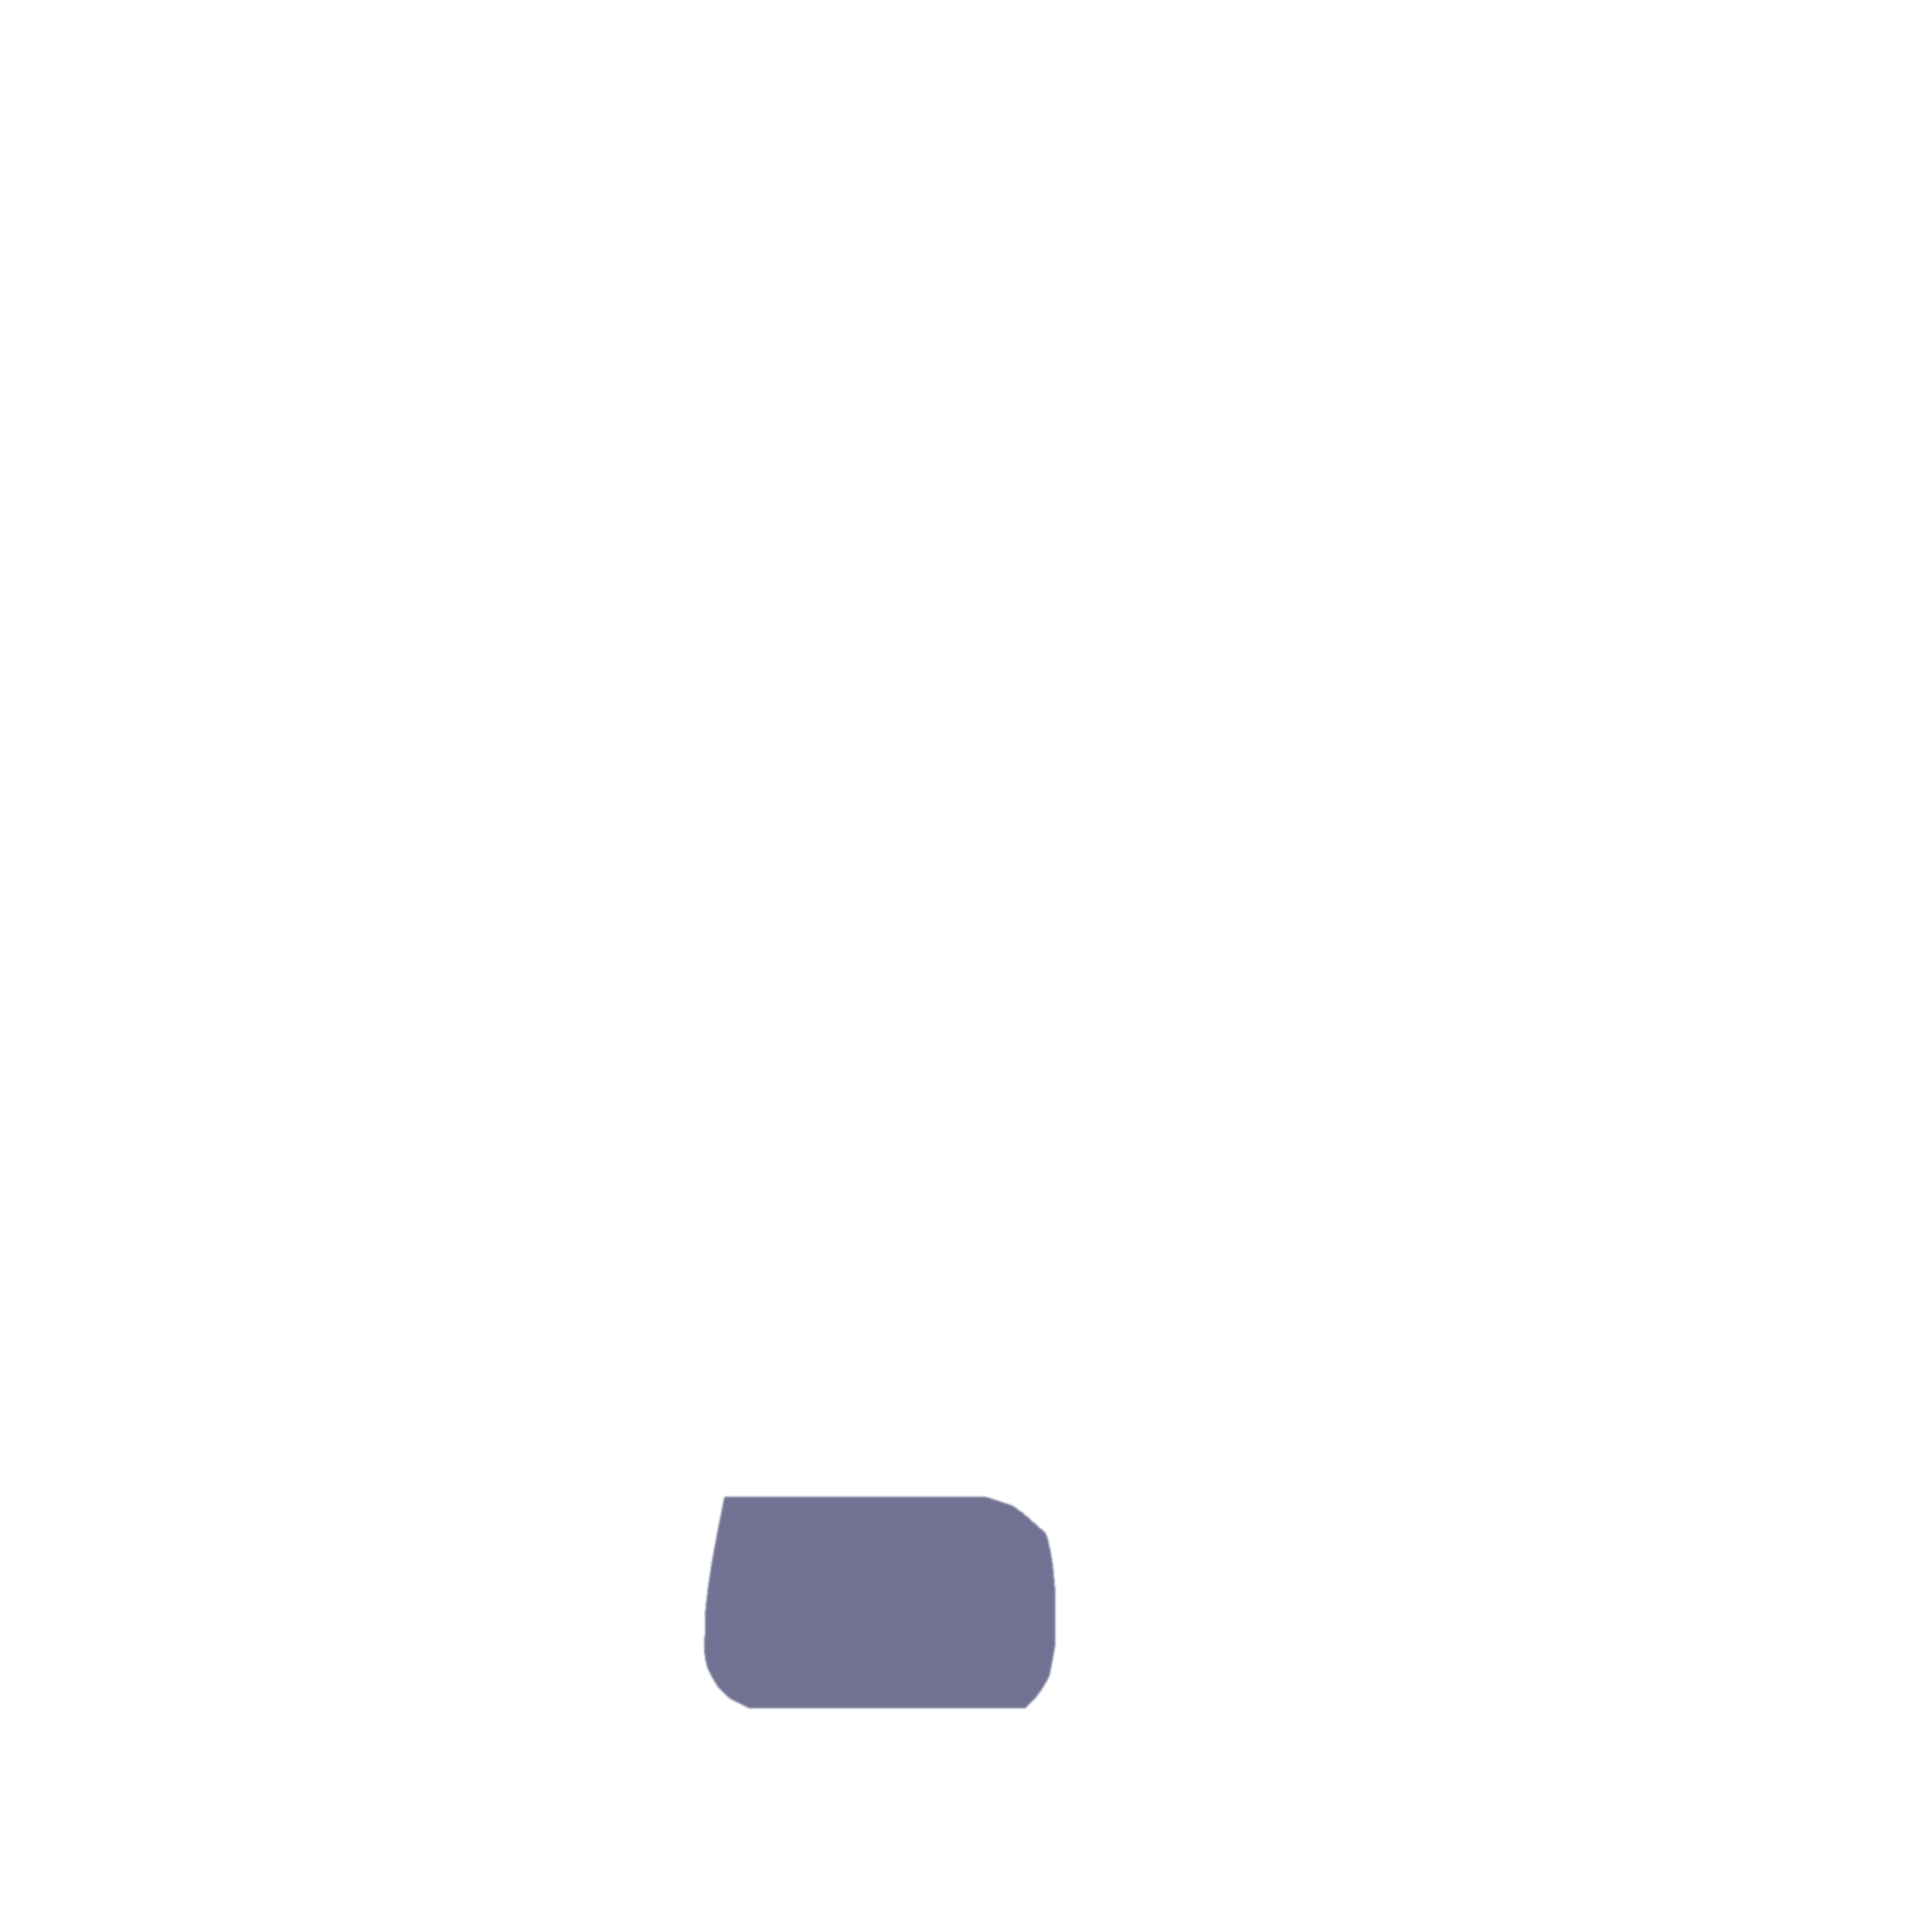
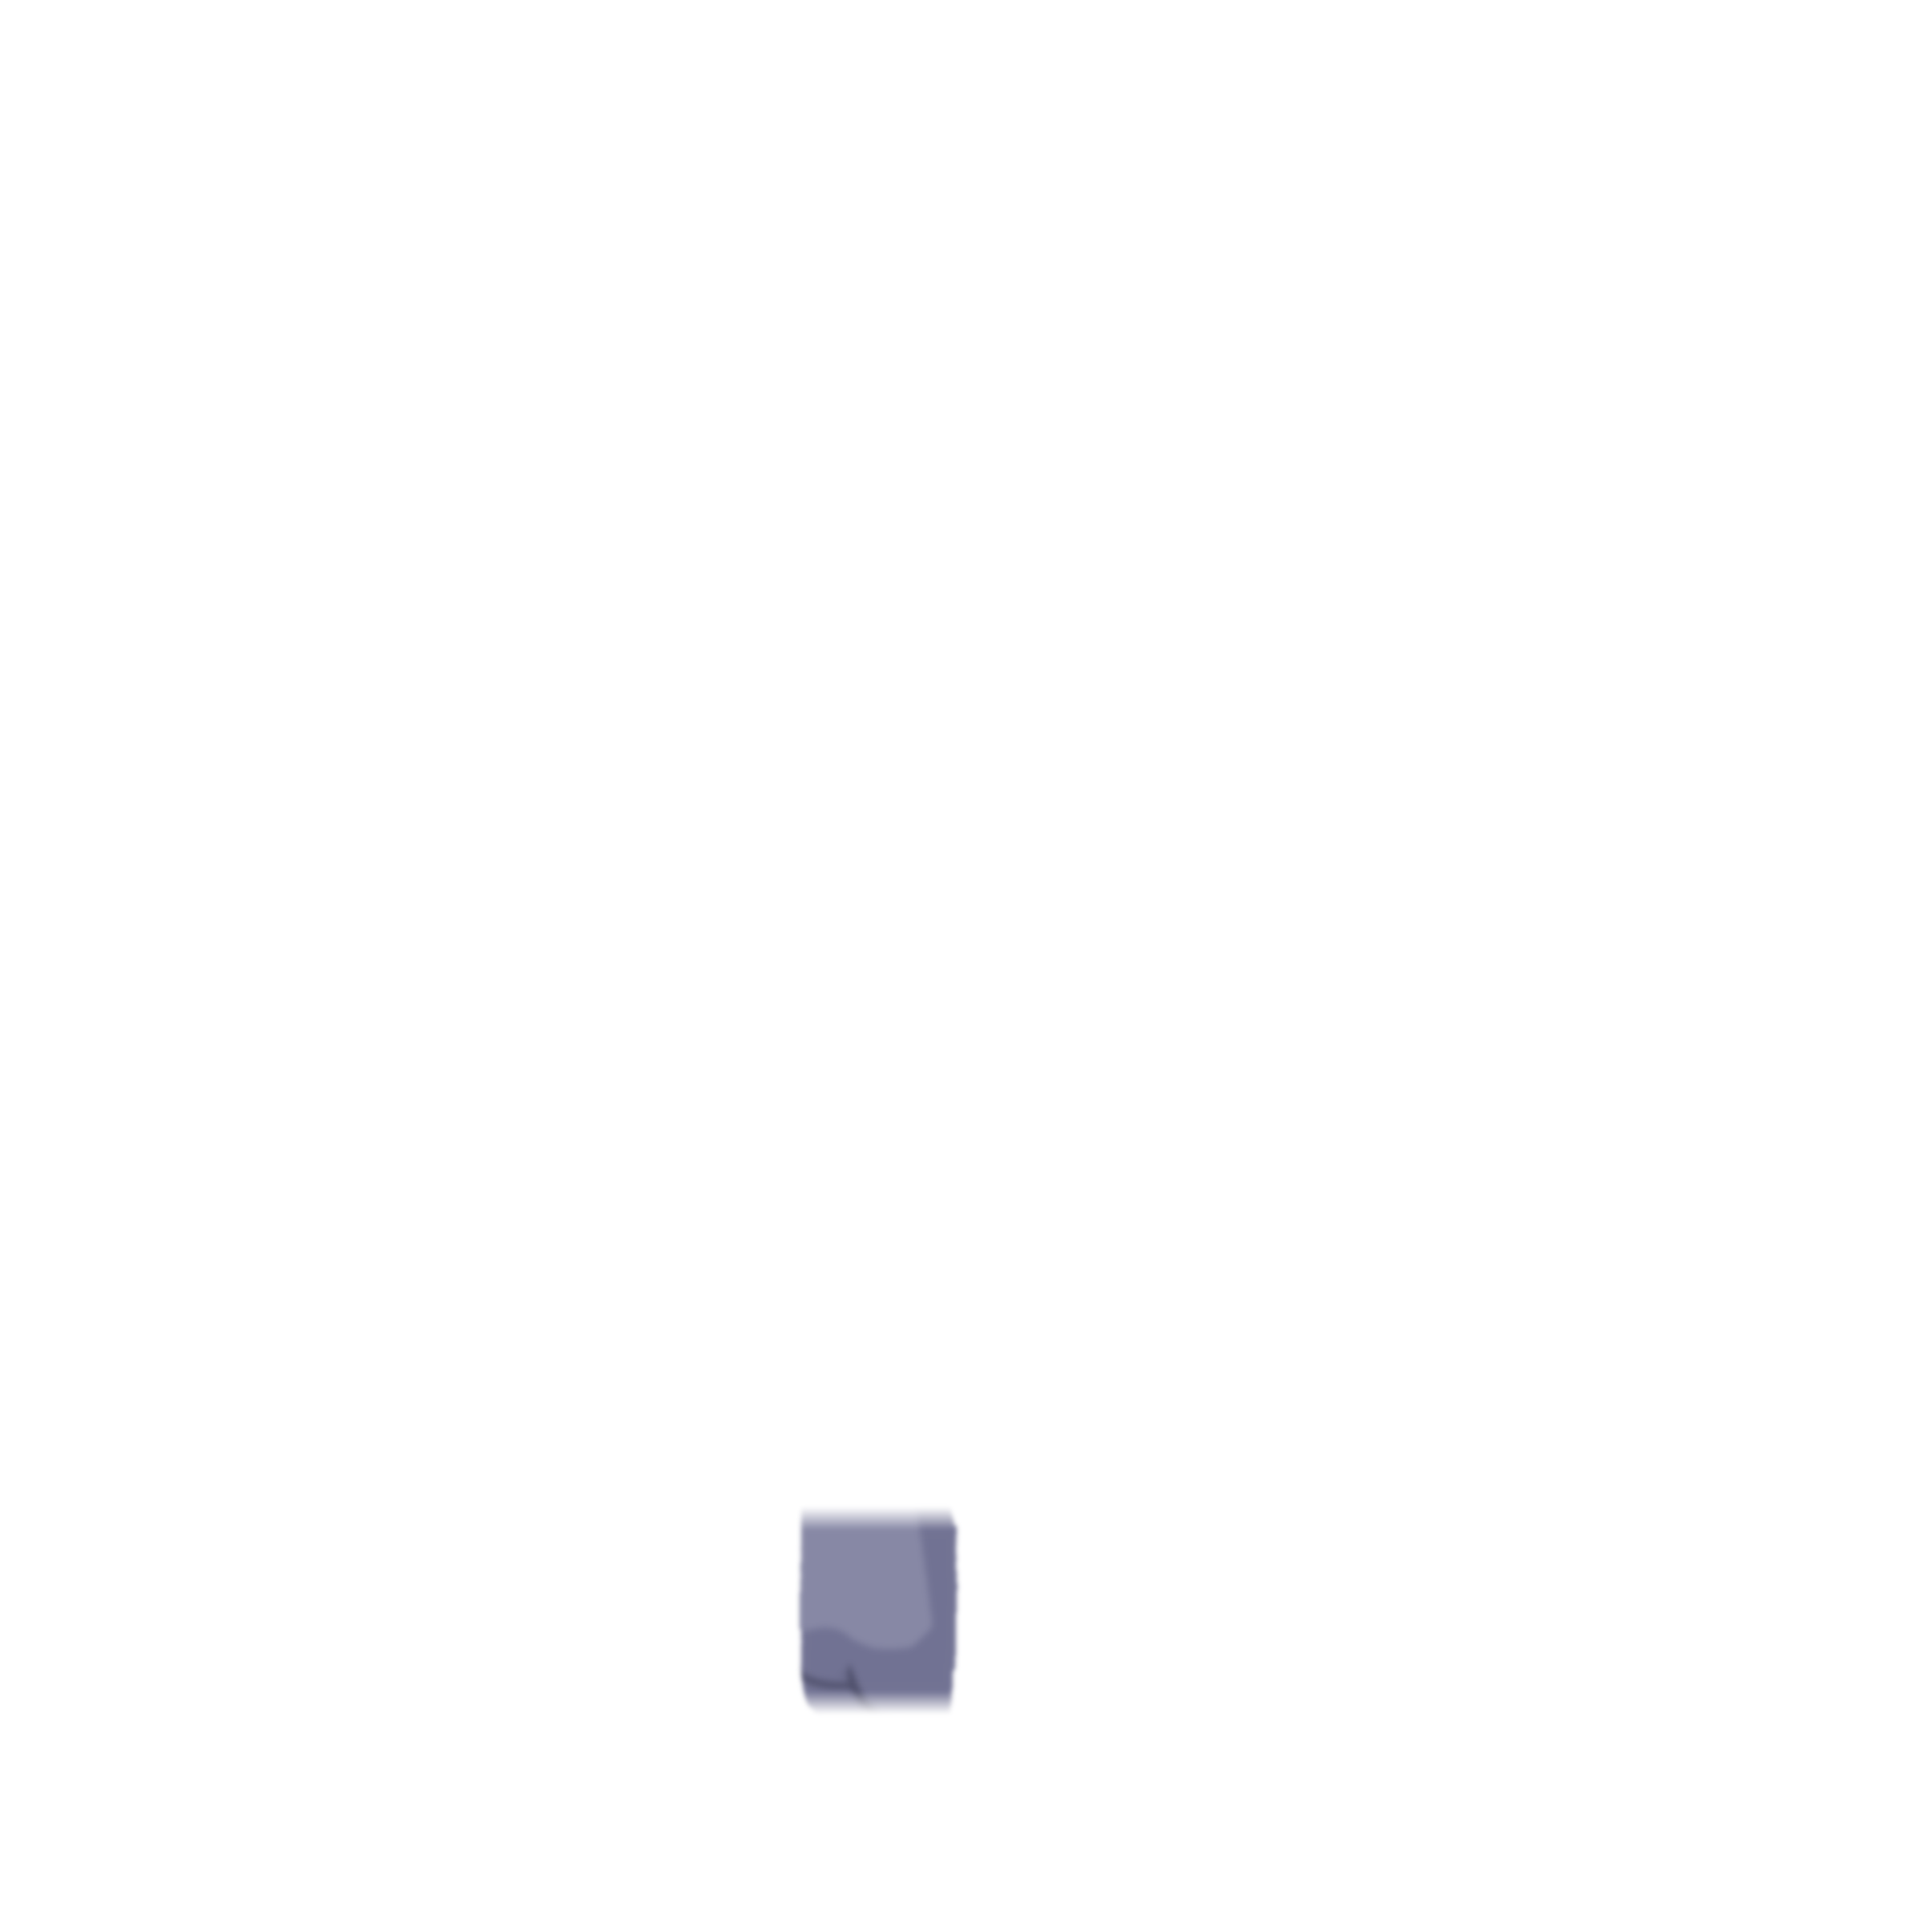
rig: 늑대잠옷 — 받은 통합 그림 차례로(두 다리 몸통 위 · 허리선 없앰) · 다리 사이 채움을 두 다리 가운데선 사이로만 · 겹친 다리 가장자리 부드럽게
- 차례: 먼 팔 소매 → 몸통 → 다리 사이 채움 → 화면 왼쪽 다리 → 화면 오른쪽 다리 → 맨몸 왼팔 → 왼팔 소매
- 다리 사이 채움.png: 줄마다 두 다리의 가운데선 사이만 채우고(바깥으로 삐져나와 자국이 남지 않게),
  색은 두 다리를 겹친 그림에서 외곽선을 지우고 번진 색이라 다리 명암을 그대로 이어받음
- 화면 오른쪽 다리(파일 「오른발」)가 왼쪽 다리 위에 겹친 가장자리를 허리 ~ 발목 위 구간에서 부드럽게 —
  걸을 때 명암이 딱 잘려 보이지 않게 (rig_acc.py soft_edge)

Claude-Session: https://claude.ai/code/session_01756qBPpCuB22evHBmdXYTY

Changed region(s): [[0.3438, 0.75, 0.5625, 0.9062]]

diff --git a/tools/rig_gen.py b/tools/rig_gen.py
@@ -151,18 +151,18 @@ def build():
 
     # ---------- 늑대잠옷 (의상) ----------
     f = os.path.join(OUT, '늑대잠옷')
-    # 차례 (몸 파츠 이름 기준 — 왼쪽 = 화면 오른쪽 · 가까운 쪽):
-    #   먼 팔 소매 → 다리 사이 채움 → 오른쪽 다리(파일 「왼발」, 몸통 뒤) → 몸통 → 왼쪽 다리(파일 「오른발」, 몸통 위)
-    #   → [맨몸 왼팔] → 왼팔 소매   — 맨몸 왼팔은 잠옷 몸통 위 · 왼팔 소매 밑
-    under = ['늑대잠옷_오른팔 2.png', '늑대잠옷_오른팔 1.png', '다리 사이 채움.png', '늑대잠옷_왼발 2.png', '늑대잠옷_왼발 1.png',
-             '늑대잠옷_몸통.png', '늑대잠옷_오른발 2.png', '늑대잠옷_오른발 1.png']
+    # 차례는 받은 「늑대잠옷_통합」 과 같게 — 두 다리 모두 몸통 위(허리선이 안 보이고 명암이 이어짐):
+    #   먼 팔 소매 → 몸통 → 다리 사이 채움 → 화면 왼쪽 다리(파일 「왼발」) → 화면 오른쪽 다리(파일 「오른발」)
+    #   → [맨몸 왼팔] → 왼팔 소매   — 맨몸 왼팔은 잠옷 위 · 왼팔 소매 밑
+    under = ['늑대잠옷_오른팔 2.png', '늑대잠옷_오른팔 1.png', '늑대잠옷_몸통.png', '다리 사이 채움.png',
+             '늑대잠옷_왼발 2.png', '늑대잠옷_왼발 1.png', '늑대잠옷_오른발 2.png', '늑대잠옷_오른발 1.png']
     sleeve = ['늑대잠옷_왼팔 2.png', '늑대잠옷_왼팔 1.png']
     fol = {'늑대잠옷_왼발 2.png': '오른쪽 다리2', '늑대잠옷_왼발 1.png': '오른쪽 다리1',
            '늑대잠옷_오른발 2.png': '왼쪽 다리2', '늑대잠옷_오른발 1.png': '왼쪽 다리1',
            '늑대잠옷_오른팔 2.png': '오른팔2', '늑대잠옷_오른팔 1.png': '오른팔1',
            '늑대잠옷_왼팔 2.png': '왼팔2', '늑대잠옷_왼팔 1.png': '왼팔1',
            '다리 사이 채움.png': ['오른쪽 다리2', '왼쪽 다리2']}
-    item('outfit/늑대잠옷', '늑대잠옷 — 꼬리 세 마디(3 뿌리 → 2 → 1 끝)가 살랑 · 귀(후드)는 가끔 파르르 · 걸을 때는 기우뚱 없이 다리만 번갈아 내딛고, 두 다리 사이는 같은 색(다리 사이 채움)으로 이어 벌어져도 티가 안 남 · 다리 · 팔 뿌리는 몸통에 붙은 채 끝만 움직여 옷 · 바지 이음새가 안 벌어짐 · 오른쪽 다리는 몸통 뒤, 왼쪽 다리는 몸통 위 · 맨몸 왼팔은 잠옷 몸통 위 · 왼팔 소매 밑 · 나머지는 몸 파츠를 따라감 '
+    item('outfit/늑대잠옷', '늑대잠옷 — 꼬리 세 마디(3 뿌리 → 2 → 1 끝)가 살랑 · 귀(후드)는 가끔 파르르 · 걸을 때는 기우뚱 없이 다리만 번갈아 내딛고, 두 다리 사이는 같은 색(다리 사이 채움)으로 이어 벌어져도 티가 안 남 · 다리 · 팔 뿌리는 몸통에 붙은 채 끝만 움직여 옷 · 바지 이음새가 안 벌어짐 · 두 다리 모두 몸통 위(받은 통합 그림과 같은 차례) · 맨몸 왼팔은 잠옷 몸통 위 · 왼팔 소매 밑 · 나머지는 몸 파츠를 따라감 '
          '(받은 이름의 오른발 · 왼발은 화면 오른쪽 · 왼쪽 — 몸 파츠로는 왼쪽 다리 · 오른쪽 다리)',
          [P('늑대잠옷_꼬리 3.png', name='꼬리3', layer='back', z=0, pivot=[1279, 1849], rot=flap(6, 0.0, 1),
             anim={'걷기': {'rot': flap(7, 0.05, 2)}}),
@@ -171,7 +171,10 @@ def build():
           P('늑대잠옷_꼬리 1.png', name='꼬리1', layer='back', z=2, parent='꼬리2', pivot=[1643, 1776], rot=flap(12, 0.16, 1),
             anim={'걷기': {'rot': flap(13, 0.21, 2)}}),
           P('늑대잠옷_머리 뒤.png', follow='머리', layer='body', z=0)]
-         + [P(c, follow=fol.get(c, '몸통'), layer='body', z=1 + i) for i, c in enumerate(under)]
+         + [P(c, follow=fol.get(c, '몸통'), layer='body', z=1 + i,
+              **({'soft_edge': {'with': ['늑대잠옷_왼발 2.png', '늑대잠옷_왼발 1.png'], 'px': 45, 'y': [1840, 2075]}}
+                 if c.startswith('늑대잠옷_오른발') else {}))
+            for i, c in enumerate(under)]
          + [P(c, follow=fol.get(c, '몸통'), layer='neck', z=1 + i) for i, c in enumerate(sleeve)]
          + [P('늑대잠옷_왼귀.png', follow='머리', layer='head', z=0, pivot=[966, 924], rot=twitch(-8, 0.18)),
             P('늑대잠옷_머리.png', follow='머리', layer='head', z=1),

diff --git a/tools/rig_acc.py b/tools/rig_acc.py
@@ -24,6 +24,7 @@ rig/acc/<이름>/리깅.json (또는 rig/outfit/<이름>/리깅.json) 을 읽어
   anim     {동작 이름: {rot · fold · bend … 덮어쓸 값}} — 동작마다 움직임을 바꿈 (예: 새 날개 평소 / 날기)
            리깅.json 의 anims: {동작 이름: {frames · fps · fold_curve · hover …}} 도 그 동작일 때 덮어씀
   hover    (리깅.json) {dy, amp, freq} — 몸째로 떠 있기 (날기)
+  soft_edge {with: [그림…], px, y: [y0, y1]} — 그 그림들 위에 겹친 가장자리만 px 만큼 부드럽게 (y 범위 안)
   skin     (리깅.json) {legs: {from, to}, arms: {r0, r1}} — 걷기에서 다리 · 팔의 뿌리 쪽은 몸통을 따라가게 섞어
            옷 · 바지 이음새가 벌어지거나 선이 생기지 않게 (몸 파츠와 그 파츠를 따라가는 옷 모두)
   fold     {deg, scale, lag}  접기 — 리깅.json 의 fold_curve(0 = 받은 그림대로 편 모습, 1 = 다 접은 모습)를 따라
@@ -108,6 +109,20 @@ class Rig:
             p.setdefault('z', 0)
             p['img'] = _load(os.path.join(folder, p['file']), s)
             self._mask(p, s)
+            se = p.get('soft_edge')
+            if se:   # 다른 파츠 위에 겹친 가장자리를 부드럽게 — 움직여도 명암이 딱 잘려 보이지 않게
+                other = sum(_load(os.path.join(folder, f), s)[:, :, 3] for f in se['with'])
+                a = p['img'][:, :, 3]
+                inside = (a > 0.5).astype(np.uint8)
+                dist = cv2.distanceTransform(inside, cv2.DIST_L2, 5)
+                k = np.clip(dist / (se.get('px', 40) * s), 0, 1)
+                k = k * k * (3 - 2 * k)
+                n = a.shape[0]
+                yy = np.arange(n, dtype=np.float32)[:, None] / s
+                y0, y1 = se.get('y', [0, 2400])
+                zone = ((other > 0.5) & (yy >= y0) & (yy <= y1)).astype(np.float32)
+                zone = cv2.GaussianBlur(zone, (0, 0), 4 * s / 0.3)
+                p['img'] = p['img'] * (1 - zone * (1 - k))[:, :, None]
             b = p.get('bend')
             if b and b.get('still'):
                 st = _load(os.path.join(folder, b['still']), s)[:, :, 3]
